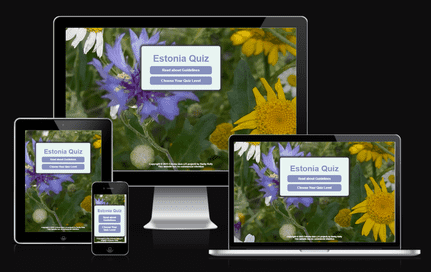
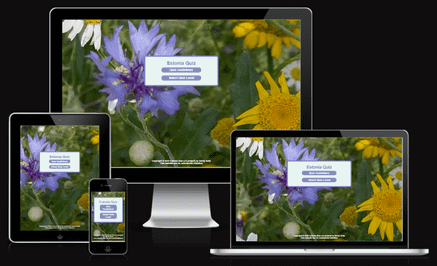
Fixed color contrast. Fixed final score html error, again

diff --git a/assets/css/style.css b/assets/css/style.css
@@ -20,7 +20,7 @@ body {
     background-size: cover;
     background-position: center;
     background-color: #6495ED;
-    color: #405eaf;
+    color: #394A6F;
     padding-bottom: 5px;
     text-align: center;    
 }
@@ -29,7 +29,7 @@ body {
 
 h1 {
     font-size: 2.5rem;
-    color: #8090BC;
+    color: #394A6F;
     padding-top: 5px;
 }
 
@@ -39,7 +39,7 @@ h2 {
     width: 100%;
     padding: 5px;
     font-weight: bold;
-    color: #8090BC;
+    color: #394A6F;
 }
 
 /* Quiz Timer styling */
@@ -54,15 +54,16 @@ p {
     font-size: 1.2rem;
     padding: 12px;
     font-weight: bold;
+    color: #394A6F;
 }
 
 /* Buttons styling */
 
 .btn {
     color: #6495ED;
-    text-shadow: 0px 3px 15px #8090BC;
+    text-shadow: 0px 3px 15px #394A6F;
     font-weight: bold;
-    background-color: #8090BC;
+    background-color: #394A6F;
     display: block;
     padding: 10px;
     width: 60%;
@@ -83,7 +84,7 @@ p {
     text-wrap: wrap;
     right: 1px;
     width: 20%;
-    background-color: #8090BC;
+    background-color: #394A6F;
     font-size: 0.7rem;
     color: #FFFFFF;
     border: 0.5px;
@@ -95,6 +96,12 @@ p {
 
 #question_section {
     margin-top: 10px;
+}
+
+#question {
+    font-weight: bold;
+    color: #26364F;
+    text-shadow: #394A6F;
 }
 
 /* Answer section buttons styling */
@@ -119,7 +126,7 @@ p {
     background-color: #E6F4F1;
     max-width: 400px;
     padding: 20px;
-    border: 0.5rem solid #7189cb; /* tone color variation from: https://www.colorhexa.com/8090bc */
+    border: 0.5rem solid #394A6F; /* tone color variation from: https://www.colorhexa.com/8090bc */
     border-radius: 15px;
 }
 
@@ -147,7 +154,7 @@ p {
 #guidelines_heading {
     font-size: 2rem;
     padding-left: 1px;
-    color: #8090BC;
+    color: #394A6F;
 }
 
 li {
@@ -156,7 +163,7 @@ li {
     padding: 5px;
     font-weight: bold;
     font-size: 1.2rem;
-    color: #8090BC;
+    color: #394A6F;
 }
 
 /* Styling to hide containers */
@@ -185,24 +192,31 @@ li {
 .correct_answer {
     color: #FFFFFF;
     background-color: green !important;
-    box-shadow: 0px 0px 10px 5px #8090BC;
+    box-shadow: 0px 0px 10px 5px #394A6F;
 }
 
 .incorrect_answer {
     color: #FFFFFF;
     background-color: red !important;
-    box-shadow: 0px 0px 10px 5px #8090BC;
+    box-shadow: 0px 0px 10px 5px #394A6F;
 }
 
 #next_question_button {
-    color: #6495ED;
-    background-color: #FFFFFF
+    color: #394A6F;
+    background-color: #FFFFFF;
+    text-shadow: none;
 }
 
 /* Styling to prevent clicks in the Answer section when no-pointer class is applied */
 
 .no-pointer {
     pointer-events: none;
+}
+
+/* Score styling */
+
+.score {
+    font-size: 1.17em;
 }
 
 /* Exit Quiz button styling */
@@ -219,9 +233,23 @@ li {
     font-size: 1rem;
 }
 
+/* Final Score styling */
+
+.final_score {
+    display: flex;
+    flex-direction: column;
+    align-items: center;
+    width: 100%;
+    font-size: 1.2em;
+}
+
+#final_score {
+    width: 100%;
+}
+
 /* Footer styling */
 
-footer {
+#footer {
     margin-top: auto;
     color: #FFFFFF;
     text-align: center;
@@ -234,21 +262,21 @@ footer > p {
 /* Provides feedback when user hovers over buttons, styling */
 
 .btn:hover {
-    border-color: #8090BC;
+    border-color: #394A6F;
     color: #E6F4F1;
-    box-shadow: 0px 0px 10px 5px #8090BC;
+    box-shadow: 0px 0px 10px 5px #394A6F;
 }
 
 .close_modal:hover {
-    background-color: #8090BC;
-    border-color: #8090BC;
-    box-shadow: 0px 0px 10px 5px #8090BC;
+    background-color: #394A6F;
+    border-color: #394A6F;
+    box-shadow: 0px 0px 10px 5px #394A6F;
 }
 
 #answer_section > .btn:hover {
-    background-color: #8090BC;
-    color: #8090BC;
-    box-shadow: 0px 0px 10px 5px #8090BC;
+    background-color: #394A6F;
+    color: #394A6F;
+    box-shadow: 0px 0px 10px 5px #394A6F;
 }
 
 /* Styling for Error Pages */
@@ -303,8 +331,7 @@ footer > p {
     }
 
     p {
-        font-size: 1.4rem;
-        font-weight: bold;  
+        font-size: 1.6rem;  
     }
 
     .btn {

diff --git a/index.html b/index.html
@@ -71,7 +71,7 @@
         <!-- Quiz Questions section with timer -->
         
         <div id="question_section">
-            <h2>Question <span id="question_number">0</span>/5 <br> <span id="timer">0</span></h2>
+            <h3>Question <span id="question_number">0</span>/5 <br> <span id="timer">0</span></h3>
             <p id="question">Question goes here</p>
         </div>
 
@@ -80,7 +80,7 @@
         <div id="answers_section"></div>
         <div>
             <button id="next_question_button" class="btn hide">Next</button>
-                <p>Score: <span id="quiz_score">0/5</span></p>
+                <p class="score">Score: <span id="quiz_score">0/5</span></p>
         </div>
     </div>
 
@@ -88,7 +88,9 @@
         
         <div id="quiz_finish" class="hide container">
             <h2>End of Quiz!</h2>
-            <p>Final Score <span id="final_score">0</span>/5</p>
+            <div class="final_score">
+                <p>Final Score <span id="final_score">0</span>/5</p>
+            </div>
             <button id="retry_quiz_button" class="btn quiz_finish_btn">Play Again</button>
             <button id="main_menu_btn" class="btn quiz_finish_btn">Main Menu</button>
         </div>
@@ -96,7 +98,7 @@
         <!-- Footer copyright script code from this video: https://youtu.be/US_3XvufMLU?feature=shared -->
 
         <footer>
-            <p> Copyright &copy; 2025 Estonia Quiz (JS project) by Barby Kelly <br> This website has no commercial intention </p>
+            <p id="footer"> Copyright &copy; 2025 Estonia Quiz (JS project) by Barby Kelly <br> This website has no commercial intention </p>
         </footer>
         
     <!-- Script -->

diff --git a/README.md b/README.md
@@ -282,7 +282,7 @@ FAVICON
     - Question (randomly chosen by js, and difficulty depending on player's Quiz Level selection)
 
     - Three possible answers
-    - All answer options displayed in same neutral color #8090BC,
+    - All answer options displayed in same neutral color #394A6F,
       without indicating which answer is correct, or which answers are incorrect
     - Each question has only one correct answer
     - Two answers are incorrect for each question
@@ -451,9 +451,9 @@ Developer used these sites/apps to create Estonia Quiz:
 |             | Header displayed on top of the container                              | as expected |
 |             | 'Quiz Guidelines' button displayed below Header                       | as expected |
 |             | 'Select Quiz Level' button displayed below 'Read Guidelines' btn      | as expected |         
-|             | Color of Header and buttons #8090BC                                 | as expected |
+|             | Color of Header and buttons #394A6F                                 | as expected |
 |             | Container's background color is #E6F4F1                             | as expected |
-|             | Border color of the container is #7189cb                            | as expected |
+|             | Border color of the container is #394A6F                            | as expected |
 |             | Shadow effect visible when hovering over buttons                      | as expected |
 |             | 'Quiz Guidelines' button is clickable, and                            | as expected |
 |             | it opens up 'Guidelines'.                                             | as expected |
@@ -479,7 +479,7 @@ Developer used these sites/apps to create Estonia Quiz:
 | Tested Item            | Expected Outcome                                                     | Outcome     |
 | ---------------------- | -------------------------------------------------------------------- | ----------- |
 | Quiz Guidelines Button | Button is clickable                                                  | as expected |
-|                        | Color of the botton is #8090BC                                     | as expected |
+|                        | Color of the botton is #394A6F                                     | as expected |
 |                        | Text-color is #FFFFFF                                              | as expected |
 |                        | Button is inside the container                                       | as expected |
 |                        | 'Quiz Guidelines' button is displayed below 'Estonia Quiz', and      | as expected |
@@ -502,13 +502,13 @@ Developer used these sites/apps to create Estonia Quiz:
 |                   | Guidelines heading and list are displayed inside the container        | as expected |
 |                   | 'Guidelines' heading is centered above guidelines                     | as expected |
 |                   | List of guidelines displayed                                          | as expected |
-|                   | Color of heading and list items is #8090BC                          | as expected |
+|                   | Color of heading and list items is #394A6F                          | as expected |
 |                   | Container's background color is #E6F4F1                             | as expected |
-|                   | Border color of the container is #7189cb                            | as expected |
+|                   | Border color of the container is #394A6F                            | as expected |
 |                   |                                                                       |             |
 | Back to Main Menu | Button is displayed top right corner inside the container             | as expected |
 | Button            | Text Color is #FFFFFF                                               | as expected |
-|                   | Background color is #8090BC                                         | as expected |
+|                   | Background color is #394A6F                                         | as expected |
 |                   | Button text is displayed on 2 lines                                   | as expected |
 |                   | Clicking on 'Back to Main Menu' brings user back to Home page, and    | as expected |
 |                   | closes 'Guidelines'                                                   | as expected |
@@ -524,7 +524,7 @@ Developer used these sites/apps to create Estonia Quiz:
 | Tested Item                | Expected Outcome                                                    | Outcome     |
 | -------------------------- | ------------------------------------------------------------------- | ----------- |
 | 'Select Quiz Level' Button | Button is clickable                                                 | as expected |
-|                            | Color of the botton is #8090BC                                    | as expected |
+|                            | Color of the botton is #394A6F                                    | as expected |
 |                            | Text-color is #FFFFFF                                             | as expected |
 |                            | Button is inside the container                                      | as expected |
 |                            | 'Select Quiz Level' button is displayed below 'Estonia Quiz', and   | as expected |
@@ -556,7 +556,7 @@ Developer used these sites/apps to create Estonia Quiz:
 |                   |                                                                                 |             |
 | Back to Main Menu | Button is displayed top right corner inside the container                       | as expected |
 | Button            | Text Color is #FFFFFF                                                         | as expected |
-|                   | Background color is #8090BC                                                   | as expected |
+|                   | Background color is #394A6F                                                   | as expected |
 |                   | Button text is displayed on 2 lines                                             | as expected |
 |                   | Clicking on 'Back to Main Menu' brings user back to Home page, and              | as expected |
 |                   | closes 'Select Quiz Level' page                                                 | as expected |
@@ -584,7 +584,7 @@ Developer used these sites/apps to create Estonia Quiz:
 |                   | Timer is displayed, and starts to countdown towards zero                        | as expected |         
 |                   | Question is displayed below 'Question nr' and Timer                             | as expected |
 |                   | Three Answer buttons are displayed below the Question                           | as expected |
-|                   | All of the Answer buttons are same color #8090BC                              | as expected |
+|                   | All of the Answer buttons are same color #394A6F                              | as expected |
 |                   | 'Score: 0' is displayed below Answer buttons at the start of the quiz           | as expected |
 |                   | All Answer buttons are clickable                                                | as expected |
 |                   | Player can choose which answer button to choose                                 | as expected |
@@ -634,7 +634,7 @@ Developer used these sites/apps to create Estonia Quiz:
 | ----------------- | ------------------------------------------------------------------------------- | ----------- |
 | Exit Quiz Button  | "Exit Quiz" button hidden before Quiz Level is chosen                           | as expected |
 |                   | Displayed at the top right corner of the container, when quiz starts            | as expected |
-|                   | Color of the button: #8090BC                                                  | as expected |
+|                   | Color of the button: #394A6F                                                  | as expected |
 |                   | Text color #FFFFFF                                                            | as expected |
 |                   | When "Exit Quiz" button is clicked/tapped, Home page/Main menu opens            | as expected |           
 |                   | Can be clicked when Question is displayed                                       | as expected |
